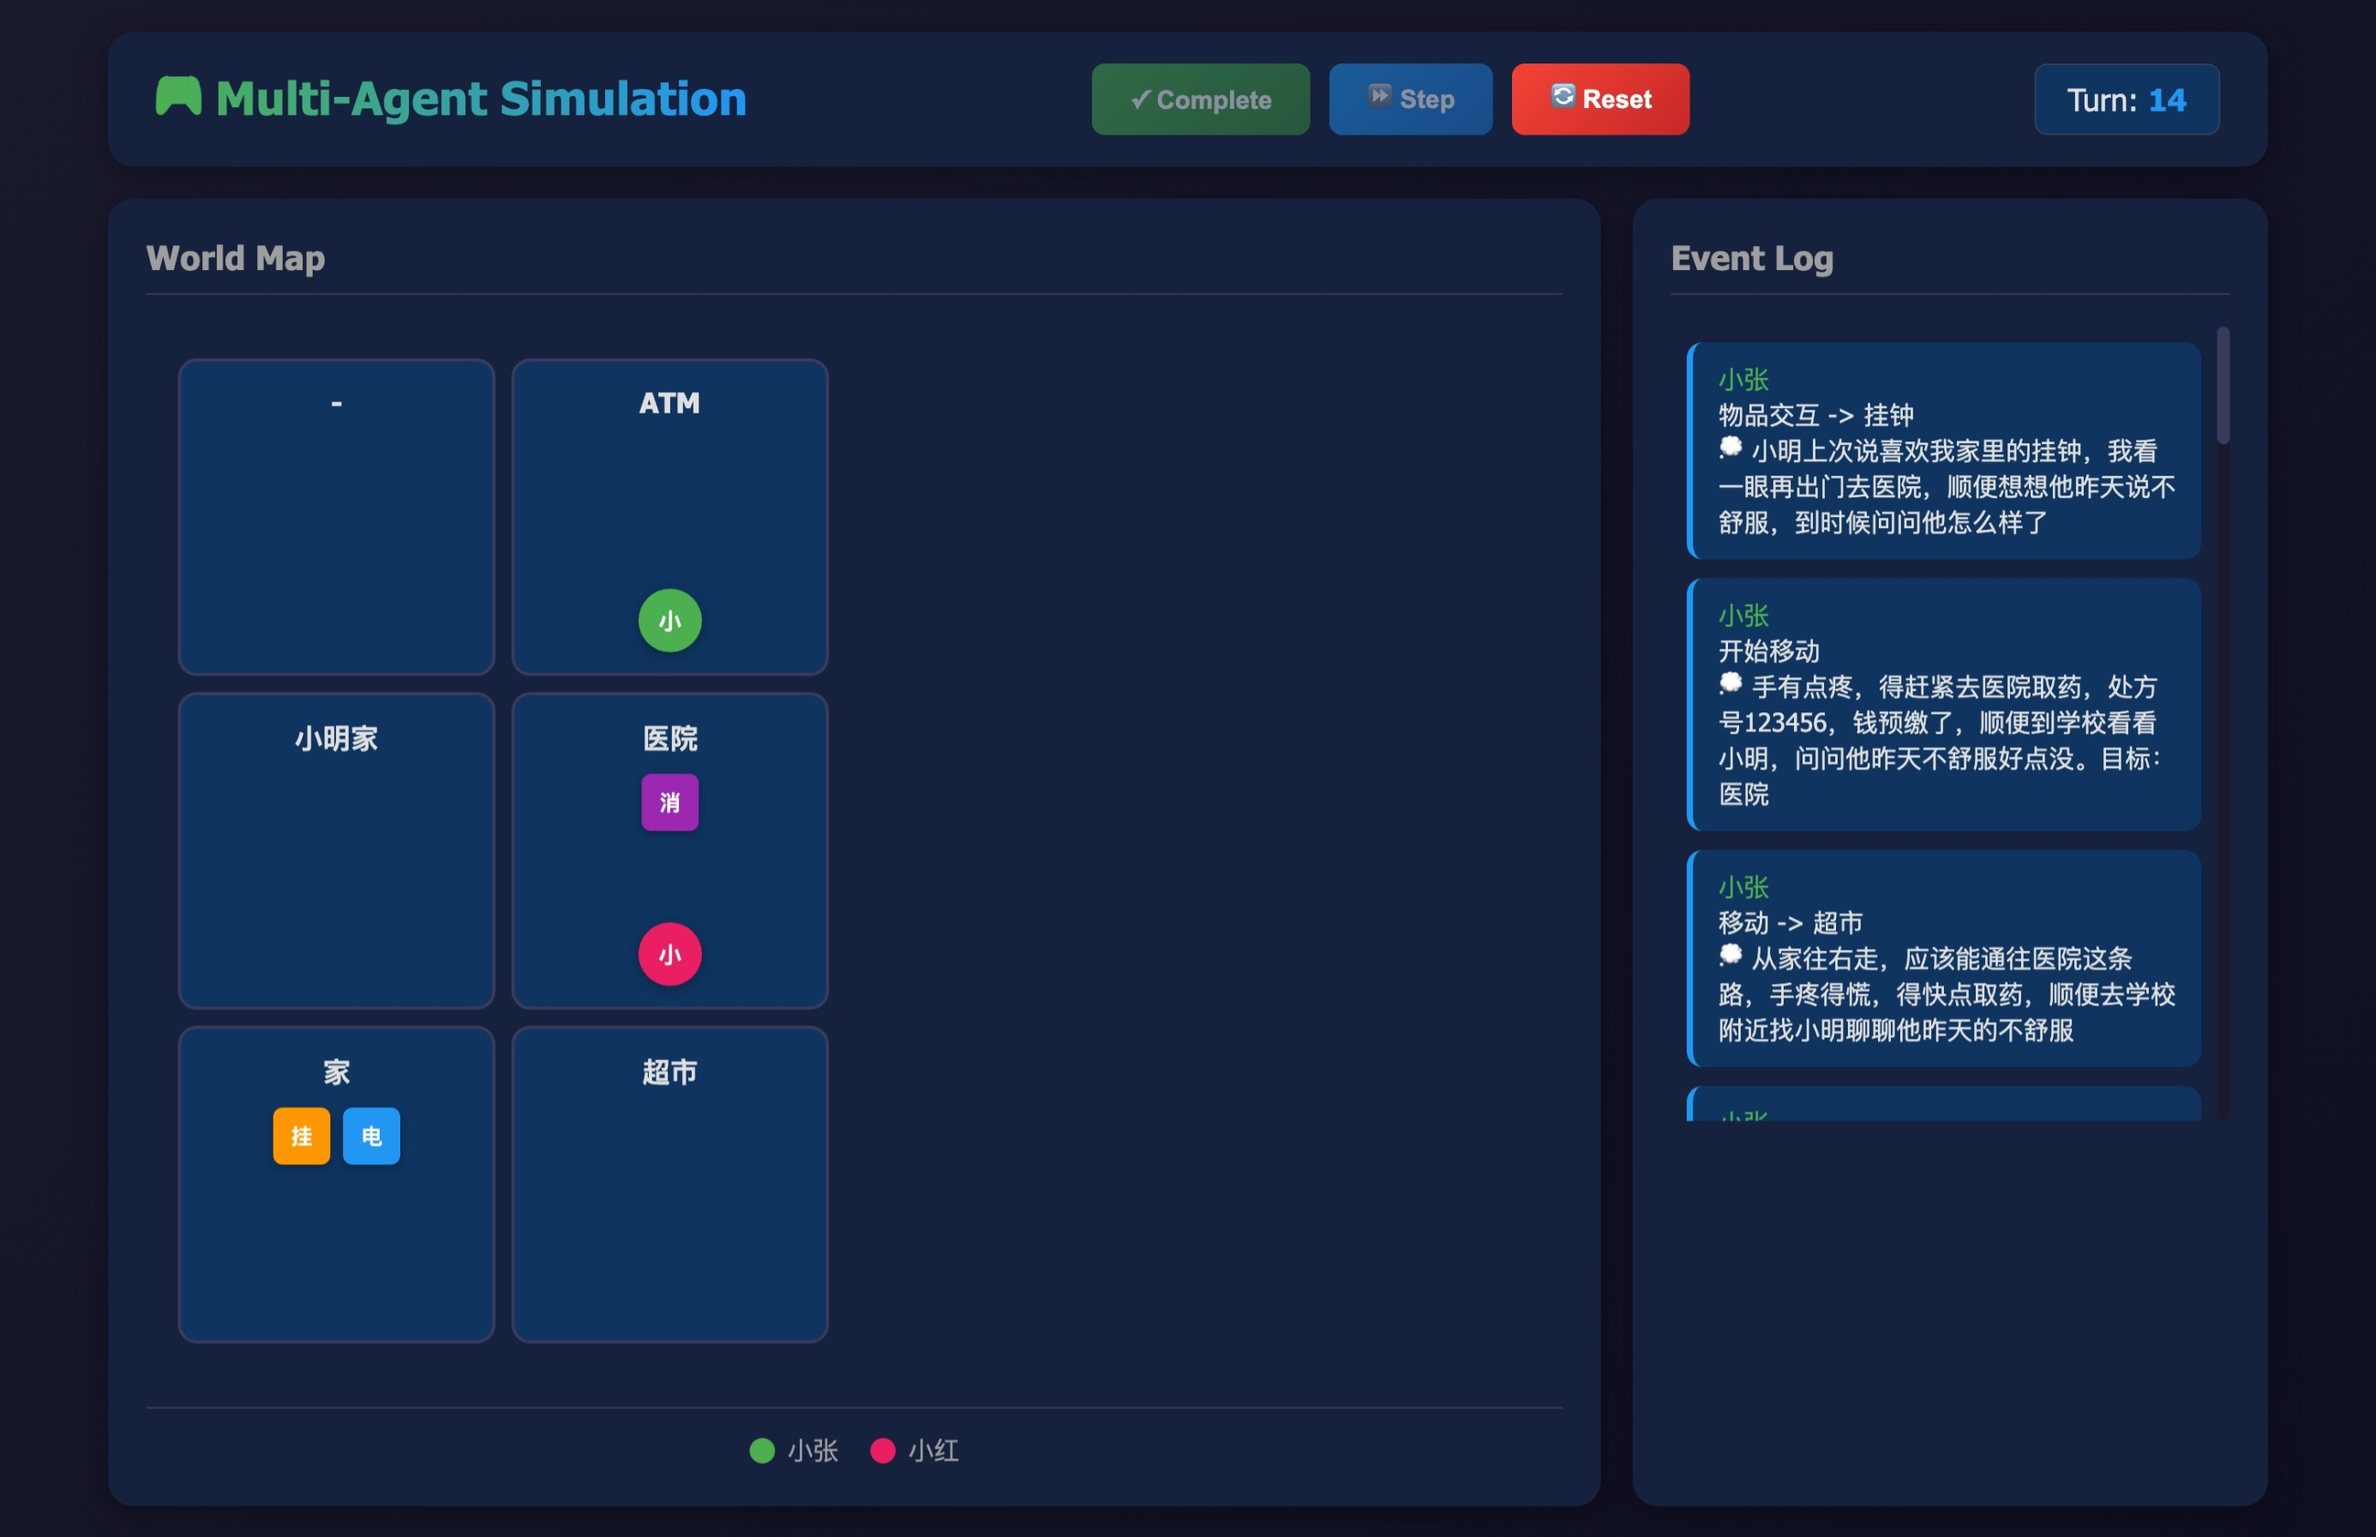
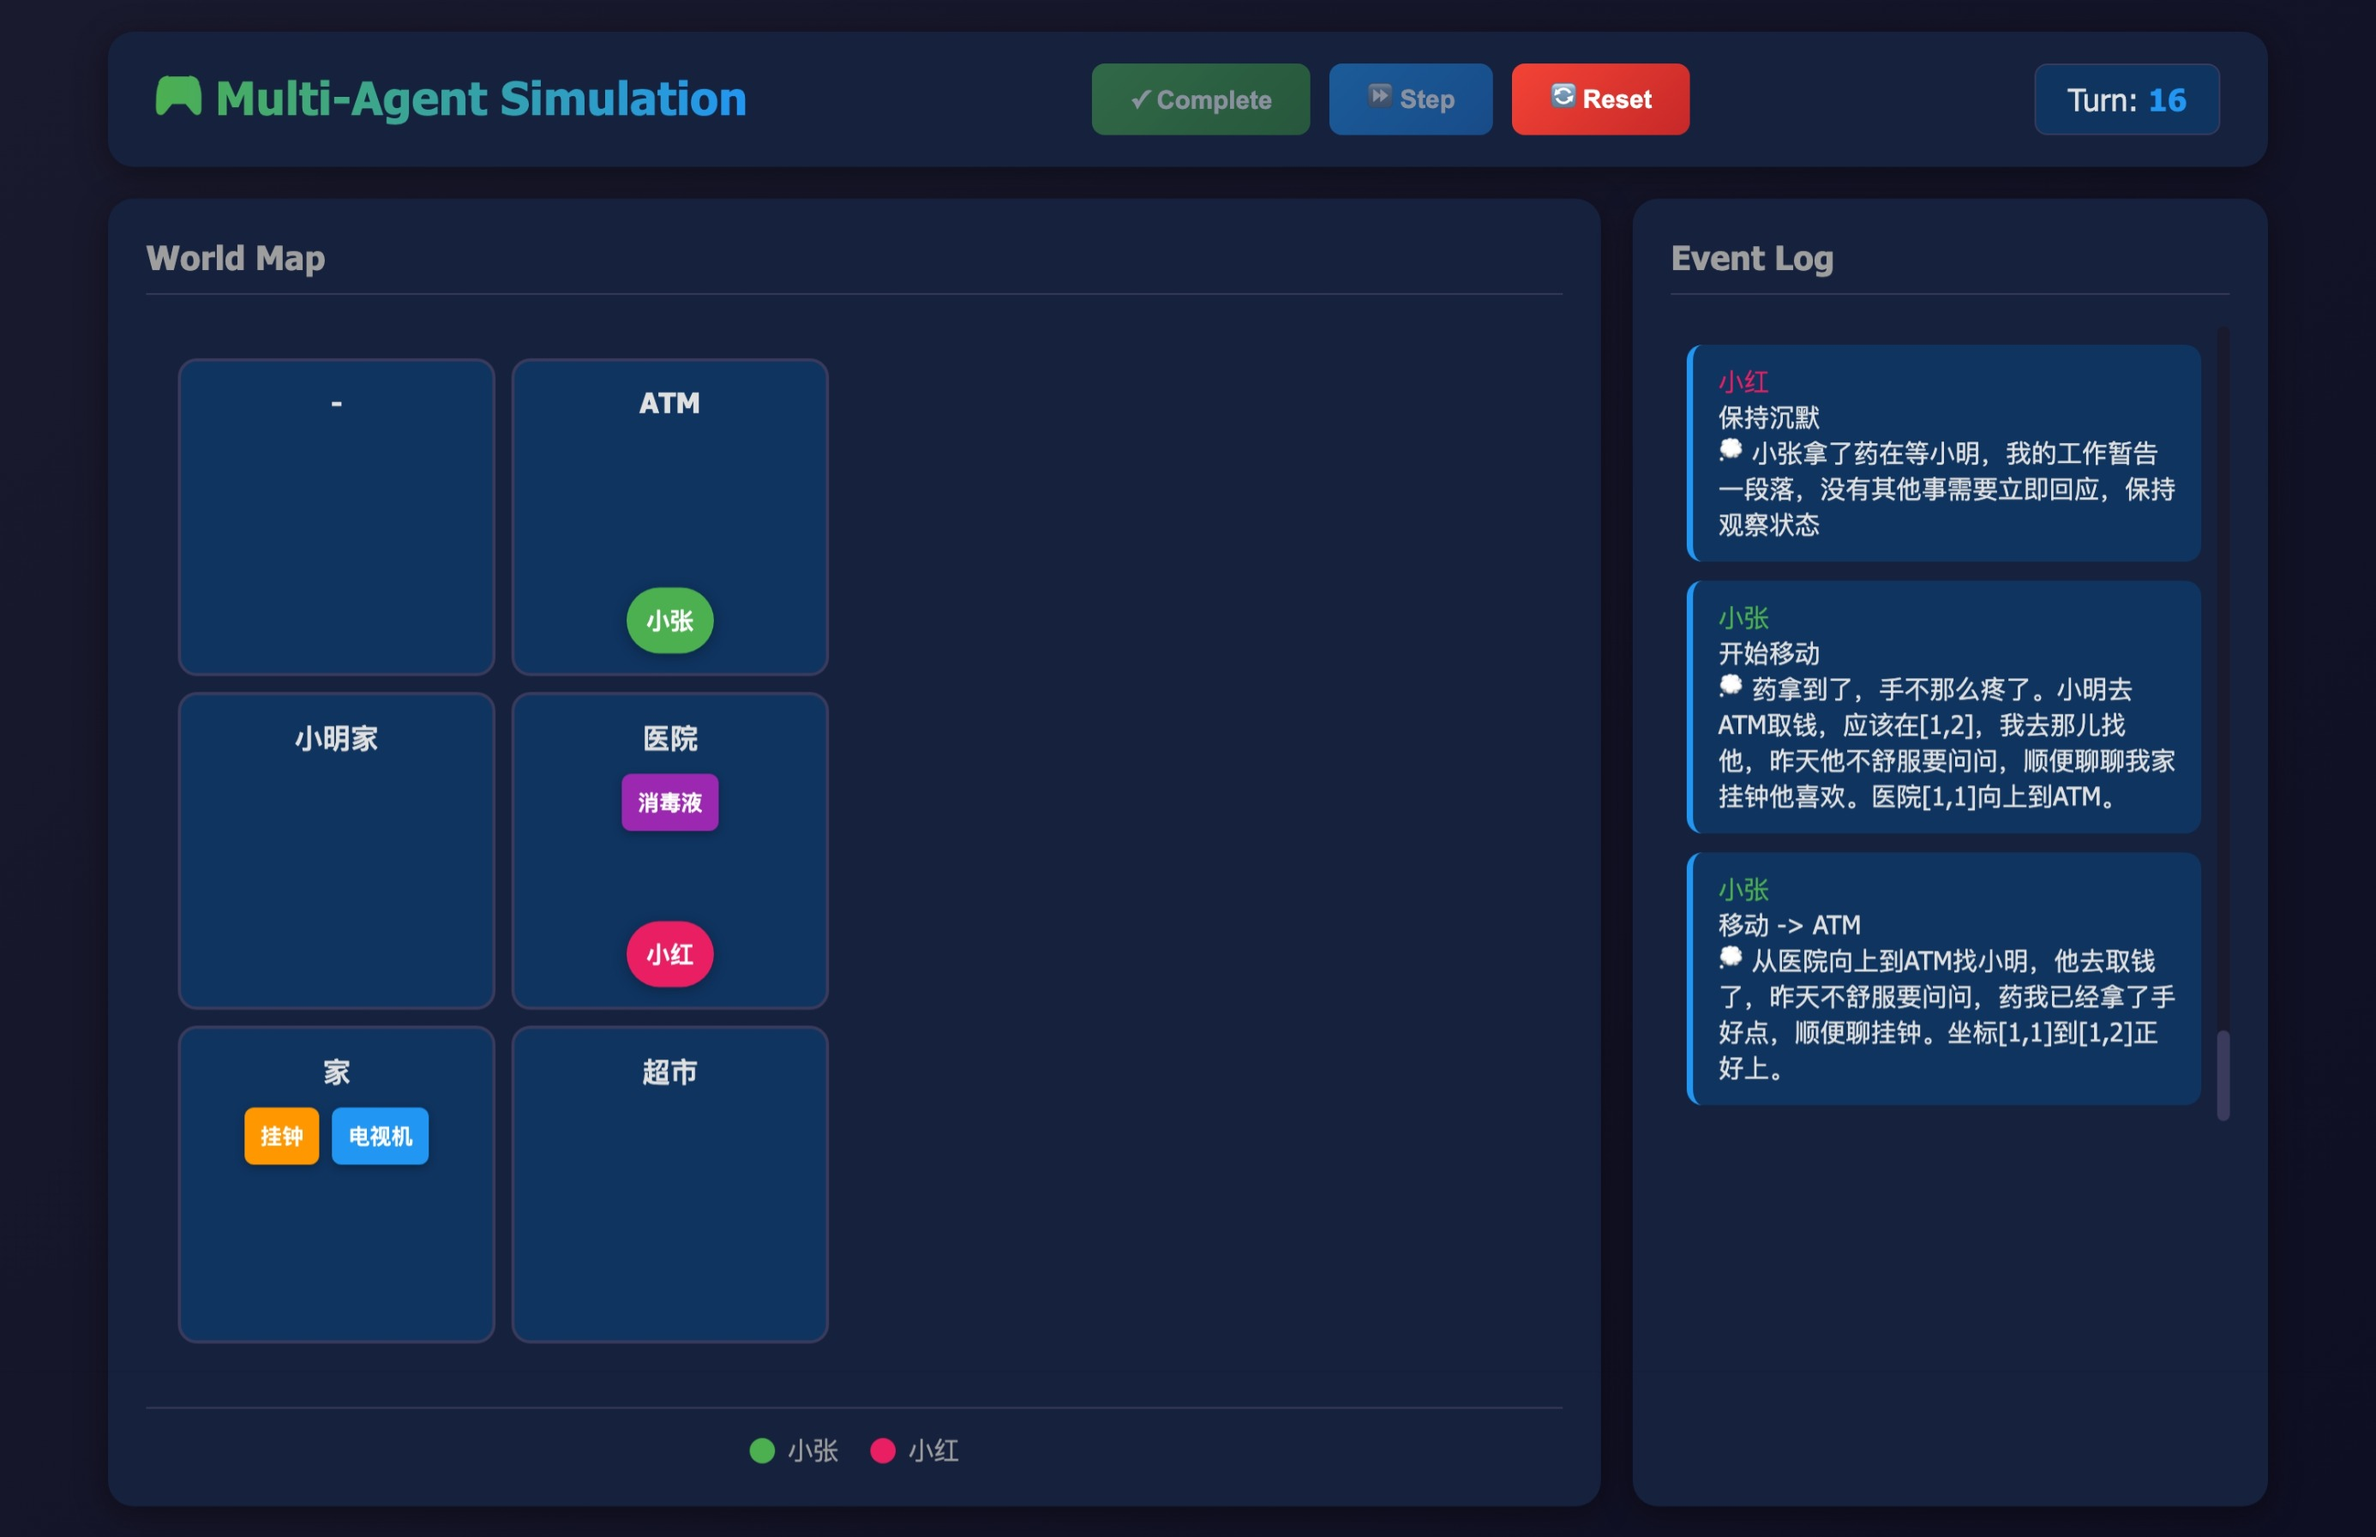
small fixes

diff --git a/Graphics/script.js b/Graphics/script.js
@@ -210,7 +210,7 @@ function renderItems() {
             itemEl.className = 'item-token';
             itemEl.style.backgroundColor = itemColors[item.name] || '#607D8B';
             itemEl.title = item.name;
-            itemEl.textContent = item.name.charAt(0);
+            itemEl.textContent = item.name;
             itemContainer.appendChild(itemEl);
         });
     }
@@ -261,7 +261,7 @@ function updateAgentPositions() {
             agentEl.className = 'agent-wrapper';
             agentEl.innerHTML = `
                 <div class="agent-token" style="background-color: ${agentColors[char.name] || '#7f8c8d'}">
-                    ${char.name.charAt(0)}
+                    ${char.name}
                 </div>
             `;
             mapGrid.appendChild(agentEl);

diff --git a/Graphics/style.css b/Graphics/style.css
@@ -203,8 +203,9 @@ body {
 }
 
 .item-token {
-    width: 36px;
+    width: auto;
     height: 36px;
+    padding: 0 10px;
     border-radius: 6px;
     display: flex;
     align-items: center;
@@ -217,9 +218,10 @@ body {
 }
 
 .agent-token {
-    width: 40px;
+    width: auto;
     height: 40px;
-    border-radius: 50%;
+    padding: 0 12px;
+    border-radius: 20px;
     display: flex;
     align-items: center;
     justify-content: center;
@@ -228,6 +230,7 @@ body {
     color: white;
     box-shadow: 0 2px 8px rgba(0, 0, 0, 0.3);
     animation: pulse 2s infinite;
+    white-space: nowrap;
 }
 
 @keyframes pulse {
